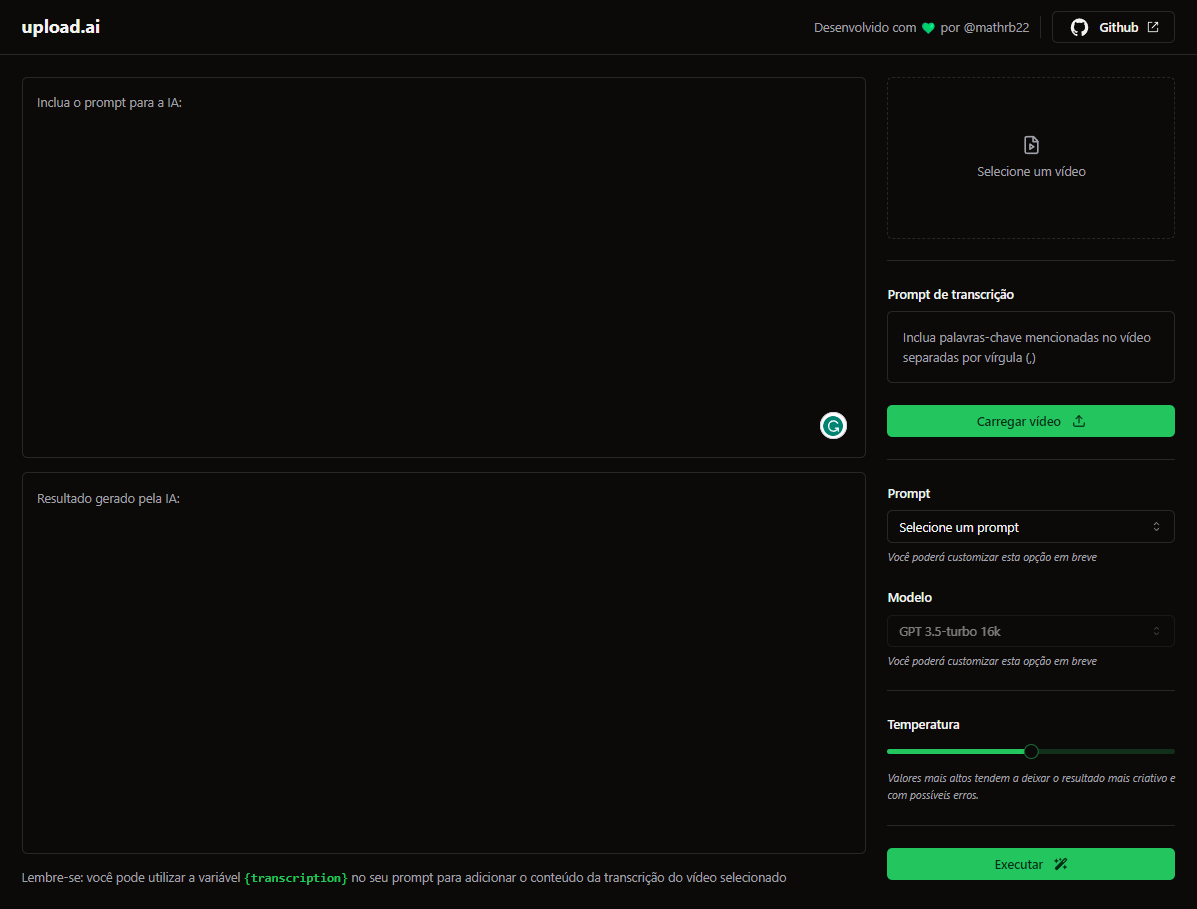
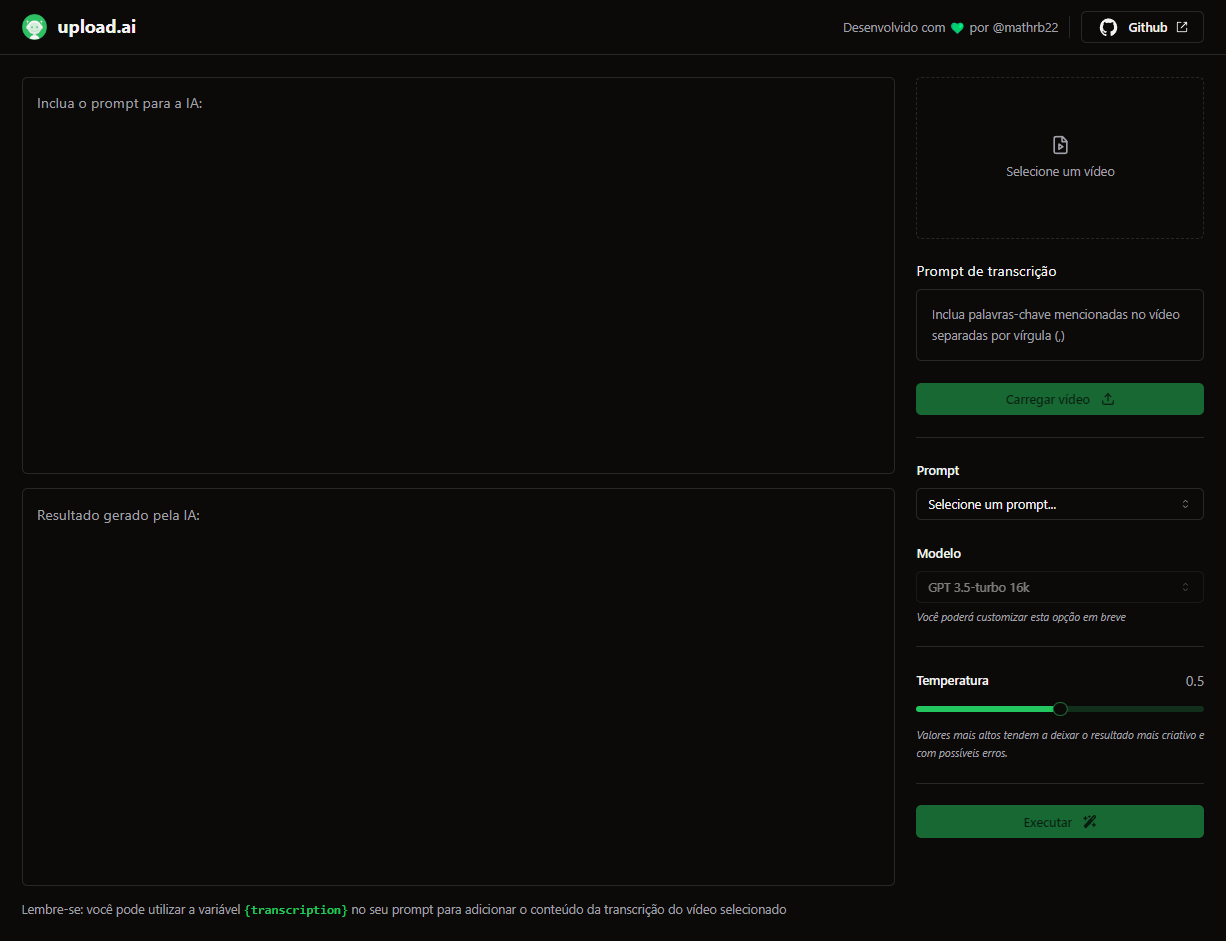
style: updating upload.ai assets

diff --git a/web/src/App.tsx b/web/src/App.tsx
@@ -59,7 +59,14 @@ export function App() {
 	return (
 		<div className='min-h-screen flex flex-col'>
 			<header className='px-6 py-3 flex flex-col gap-3 md:flex-row items-center justify-between border-b sticky top-0 bg-background z-10'>
-				<h1 className='text-xl font-bold'>upload.ai</h1>
+				<div className='flex items-center gap-3'>
+					<img
+						src='../public/icon-upload-ai.png'
+						alt='Ícone do upload.ai'
+						className='w-7 h-7'
+					/>
+					<h1 className='text-xl font-bold'>upload.ai</h1>
+				</div>
 
 				<div className='flex items-center gap-3'>
 					<span className='text-xs md:text-sm text-muted-foreground'>
@@ -74,7 +81,6 @@ export function App() {
 					</span>
 
 					<Separator orientation='vertical' className='h-6 hidden md:block' />
-					{/* <Separator orientation='horizontal' className='w-full block md:hidden' /> */}
 
 					<a
 						href='https://github.com/mathrb22/upload-ai-web'
@@ -94,7 +100,7 @@ export function App() {
 					<div className='grid grid-rows-2 gap-4 h-[400px] md:flex-1 md:h-auto'>
 						<Textarea
 							className='resize-none p-4 leading-relaxed scrollbar-thin scrollbar-thumb-secondary scrollbar-track-transparent scrollbar-rounded-full
-							hover:scrollbar-thumb-zinc-700
+							hover:scrollbar-thumb-zinc-700 text-base
 							'
 							placeholder='Inclua o prompt para a IA:'
 							value={input}
@@ -103,7 +109,7 @@ export function App() {
 						<div className='h-full relative'>
 							<Textarea
 								className='h-full resize-none p-4 leading-relaxed scrollbar-thin scrollbar-thumb-secondary scrollbar-track-transparent scrollbar-rounded-full
-							hover:scrollbar-thumb-zinc-700'
+							hover:scrollbar-thumb-zinc-700 text-base'
 								placeholder='Resultado gerado pela IA:'
 								readOnly
 								value={completion}
@@ -111,17 +117,16 @@ export function App() {
 
 							{completion && (
 								<button
+									data-clipboard-copied={clipboardCopied}
 									disabled={isLoading}
-									className={`group absolute bottom-2 right-2 text-muted-foreground transition-all p-2 rounded-md border border-gray-700 hover:text-current hover:border-gray-600 disabled:text-muted-foreground disabled:pointer-events-none disabled:border-gray-700 ${
-										clipboardCopied ? 'border-primary-foreground' : ''
-									}`}
+									className='group absolute bottom-2 right-2 text-muted-foreground transition-all p-2 rounded-md border border-gray-700 hover:text-current hover:border-gray-600 disabled:text-muted-foreground disabled:pointer-events-none disabled:border-gray-700 data-[clipboard-copied=true]:border-primary-foreground'
 									onClick={handleCopyAIResultToClipboard}>
 									{clipboardCopied ? (
-										<LuCheck size={18} className={'text-primary transition-all'} />
+										<LuCheck size={18} className='text-primary transition-all' />
 									) : (
 										<MdOutlineContentCopy
 											size={18}
-											className={'transition-all animate-out group-hover:text-white'}
+											className='transition-all animate-out group-hover:text-white'
 										/>
 									)}
 								</button>

diff --git a/web/index.html b/web/index.html
@@ -3,6 +3,7 @@
 	<head>
 		<meta charset="UTF-8" />
 		<meta name="viewport" content="width=device-width, initial-scale=1.0" />
+		<link rel="icon" type="image/x-icon" href="favicon.ico" />
 		<title>upload.ai</title>
 	</head>
 	<body>

diff --git a/web/src/components/video-input-form.tsx b/web/src/components/video-input-form.tsx
@@ -82,7 +82,7 @@ export function VideoInputForm(props: VideoInputFormProps) {
 			type: 'audio/mpeg',
 		});
 
-		console.log('Convert finished: ' + audioFile);
+		console.log('Convert finished');
 
 		return audioFile;
 	}

diff --git a/README.md b/README.md
@@ -1,5 +1,6 @@
 <div align="center">
-   <h1>upload.ai</h1>
+<img src=".github/assets/icon-upload-ai.png" alt="Ícone de um robô para representação do projeto upload.ai" style="height: 85px">
+<h1>upload.ai</h1>
 </div>
 <div align="center">
    <a href="https://github.com/mathrb22">
@@ -25,6 +26,7 @@
 [**Sobre**](#-sobre) &nbsp;&nbsp;**|**&nbsp;&nbsp;
 [**Objetivo**](#-objetivo) &nbsp;&nbsp;**|**&nbsp;&nbsp;
 [**Features**](#-features) &nbsp;&nbsp;**|**&nbsp;&nbsp;
+[**Demonstração**](#-demonstração) &nbsp;&nbsp;**|**&nbsp;&nbsp;
 [**Tecnologias e ferramentas**](#-tecnologias-e-ferramentas) &nbsp;&nbsp;**|**&nbsp;&nbsp;
 [**Organização do projeto**](#-organização-do-projeto) &nbsp;&nbsp;**|**&nbsp;&nbsp;
 [**Instalação e execução**](#-instalação-e-execução) &nbsp;&nbsp;**|**&nbsp;&nbsp;
@@ -54,7 +56,12 @@ O projeto **Upload.ai** possui muitas aplicações práticas. Ele poderá ajudar
 - [x] Transcrição de áudio utilizando o [**Whisper (ASR - Automatic Speech Recognition)**](https://openai.com/research/whisper) da OpenAI;
 - [x] Geração de resumo da transcrição utilizando o modelo GPT-3 da OpenAI;
 - [x] Geração de títulos chamativos utilizando o modelo GPT-3 da OpenAI;
-- [x] Geração de descrições otimizadas para SEO utilizando o modelo GPT-3 da OpenAI.
+- [x] Geração de descrições otimizadas para SEO utilizando o modelo GPT-3 da OpenAI;
+- [x] Cópia dos resultados gerados pela IA para a área de transferência.
+
+## 💻 Demonstração
+
+<img alt="upload.ai" src=".github/assets/upload.ai2.png" width="100%"/>
 
 ## 🚀 Tecnologias e ferramentas
 
